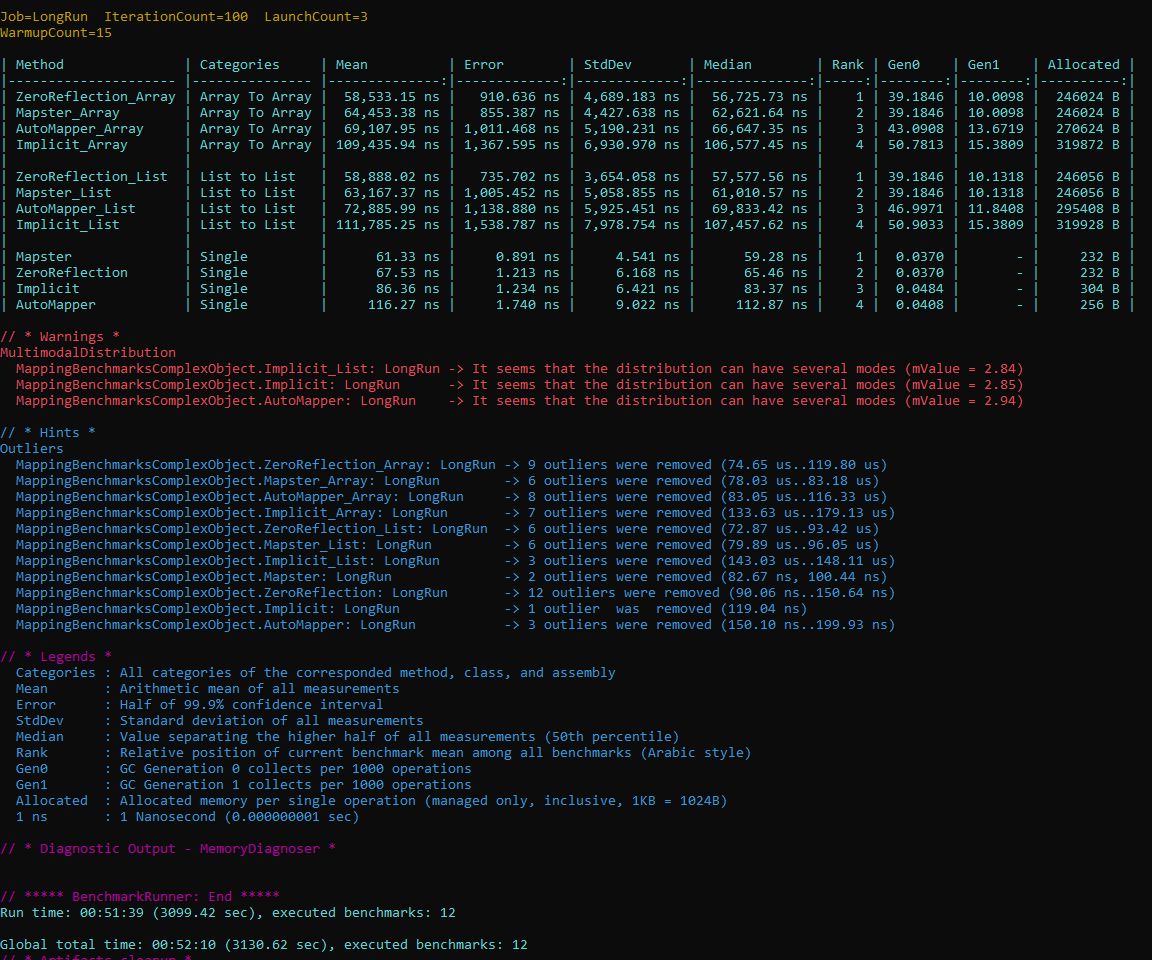
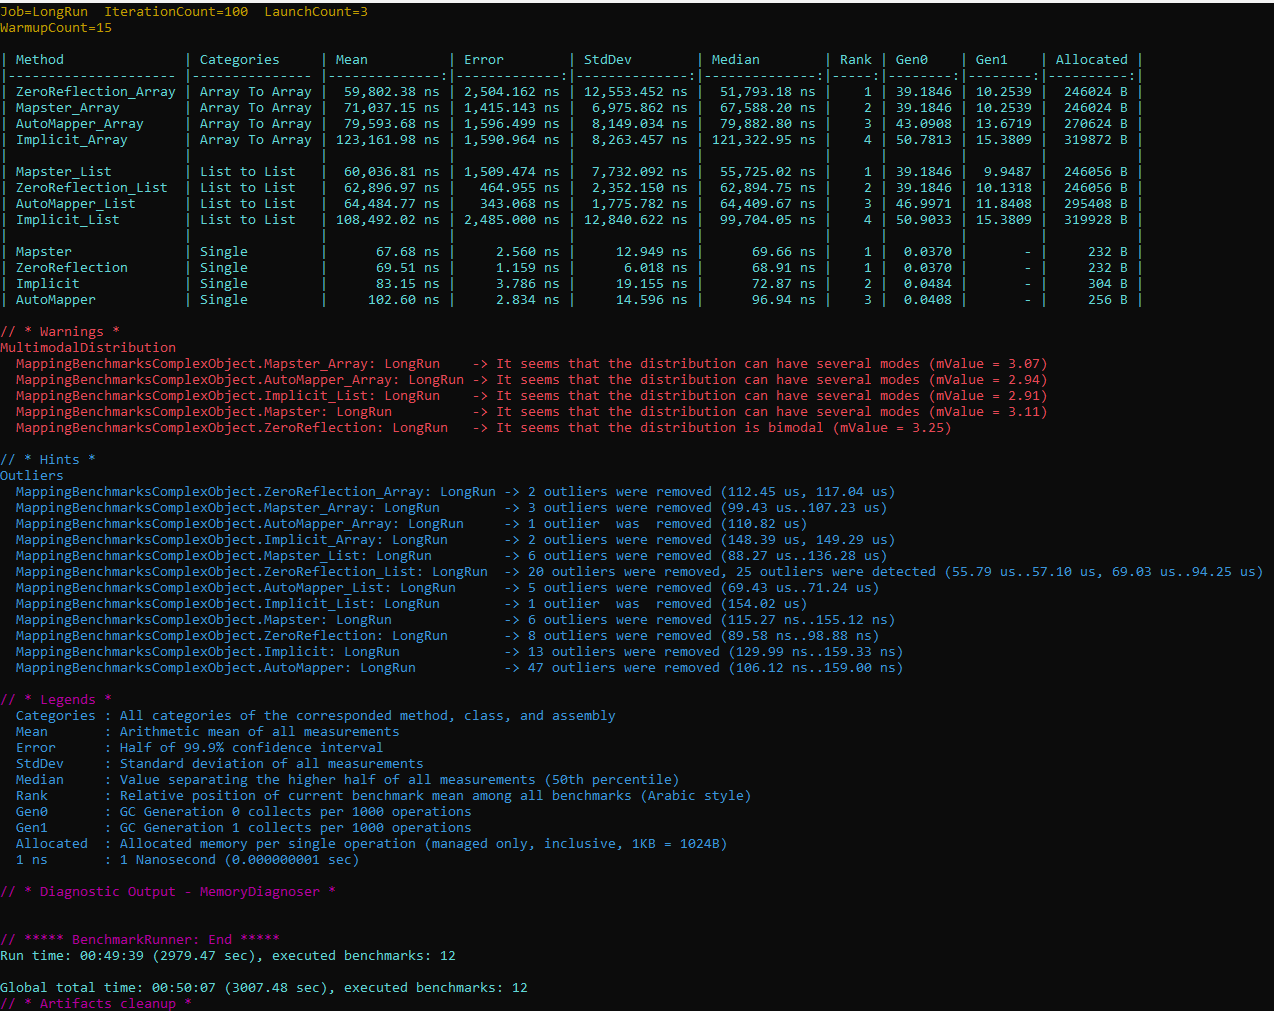
new benchmarks done using jump table and improved nested object mappings

diff --git a/README.md b/README.md
@@ -6,6 +6,8 @@ ZeroReflection.Mapper is a .NET source generator for object mapping. It enables 
 - Attribute-based mapping configuration
 - Custom mapping profiles
 - Ignore properties with attributes
+- Optional LINQ projection expressions (compile-time generated)
+- Fast dispatcher for arrays/lists/single objects (if/else or switch jump-table)
 - Source generator for high performance
 
 ## Getting Started
@@ -25,6 +27,10 @@ A Mapper Profile in ZeroReflection.Mapper allows you to configure how objects ar
 2. Override the `Configure` method and use the provided `MapperConfiguration` to set up your mappings.
 
 > **Note:** If you are not interested in projections, use `config.EnableProjectionFunctions = false;` in your profile configuration. This will prevent the generator from emitting LINQ projection expressions and compiled delegates.
+> Notes
+> - If you are not interested in projections, use `config.EnableProjectionFunctions = false;`. When `false`, projection members may still be selectively generated for collection element types used by other mappings.
+> - `config.UseSwitchDispatcher` controls whether the dispatcher uses a switch-based jump table or chained type checks.
+> - `config.ThrowIfPropertyMissing` injects build-time `#error` for unmapped destination properties.
 
 ### Example
 ```csharp
@@ -35,9 +41,14 @@ public class ZeroReflectionMapperProfile : MapperProfile
     public override void Configure(MapperConfiguration config)
     {
         // Enable projection functions (for LINQ and compiled delegates)
+        // Projection functions (Projection, ListProjection, ArrayProjection + compiled delegates)
         config.EnableProjectionFunctions = true;
         // If you do NOT want projections, set to false:
         // config.EnableProjectionFunctions = false;
+        // Dispatcher strategy
+        config.UseSwitchDispatcher = true;
+        // Build will fail if a destination property cannot be mapped (unless ignored or custom mapped)
+        config.ThrowIfPropertyMissing = false;
 
         // Simple mapping with reverse
         config.CreateMap<PersonModel, PersonEntity>().Reverse();
@@ -48,6 +59,7 @@ public class ZeroReflectionMapperProfile : MapperProfile
             .Ignore(dest => dest.Manufacturer);
 
         // Reverse mapping for customized ones
+        // Reverse mapping for customized ones must be defined explicitly
         config.CreateMap<ProductEntity, ProductModel>();
 
         // Custom mapping function
@@ -81,11 +93,17 @@ public class StaticMappers
 - **Custom Member Mapping**: Use `.ForMember()` to customize how individual properties are mapped.
 - **Ignore Properties**: Use `.Ignore()` to skip mapping specific properties.
 - **Custom Mapping Functions**: Use `.WithCustomMapping()` to provide your own mapping logic.
+### Key Points
+- Reverse Mapping: `.Reverse()` adds the reverse direction only for simple mappings. It is not allowed after `WithCustomMapping`, `ForMember`, or `Ignore`. Define a separate reverse mapping instead.
+- Custom Member Mapping: Use `.ForMember()` to customize individual properties.
+- Ignore Properties: Use `.Ignore()` to skip specific destination properties.
+- Custom Mapping Functions: Use `.WithCustomMapping()` to provide your own mapping logic.
 
 For more details, see the sample profile in `Application/ZeroReflectionMapperProfile.cs`.
 
 ## Dependency Injection Registration
 To use ZeroReflection.Mapper with .NET Dependency Injection, register the mapping handlers and obtain an `IMapper` instance as follows:
+To use ZeroReflection.Mapper with .NET Dependency Injection, register the mapping services and obtain an `IMapper` instance as follows:
 
 ```csharp
 using Microsoft.Extensions.DependencyInjection;
@@ -99,9 +117,26 @@ var myMapper = sp.GetRequiredService<IMapper>();
 ```
 
 - `RegisterZeroReflectionMapping()` scans and registers all mapping profiles and handlers.
+- `RegisterZeroReflectionMapping()` registers `IMapper` and the generated `IGeneratedMappingDispatcher`.
 - You can now inject or resolve `IMapper` anywhere in your application.
 
+Note: the optional `configure` delegate parameter on `RegisterZeroReflectionMapping` is currently not used by the generator output.
+
 This approach works seamlessly with ASP.NET Core or any .NET application using Microsoft.Extensions.DependencyInjection.
+
+## Using the mapper at runtime
+You can use either the generated static extension methods or the `IMapper` service:
+
+- Generated methods per map, for single objects:
+  - `var entity = model.MapToPersonEntity();`
+- Collections/arrays (generated helpers):
+  - `var list = MapPersonModelToPersonEntity.MapListToPersonEntity(models);`
+  - `var arr = MapPersonModelToPersonEntity.MapArrayToPersonEntity(modelsArray);`
+- Via `IMapper` (collections/arrays):
+  - `var list = myMapper.Map<System.Collections.Generic.List<PersonEntity>>(models);`
+  - `var arr = myMapper.Map<PersonModel[], PersonEntity[]>(modelsArray);`
+- Via `IMapper` (single object):
+  - `var entity = myMapper.MapSingleObject<PersonModel, PersonEntity>(model);`
 
 ## What is being generated
 
@@ -109,6 +144,7 @@ ZeroReflection.Mapper Source Generator produces several types of files to suppor
 
 ### 1. DI Registration Extension
 This code provides DI registration for all mapping components, including the core mapper, dispatcher, and individual mapping handlers:
+Registers the core mapper and the generated dispatcher.
 
 ```csharp
 // <auto-generated />
@@ -124,6 +160,8 @@ namespace ZeroReflection.Mapper.Generated
     // and each concrete IMap<TSource,TDestination> handler for direct resolution / testing / fallback.
     // Safe to call once at application startup (idempotent with typical DI containers registering singletons).
     // Generated at 2025-08-20T14:30:12.4508116+02:00
+    // Provides a single extension point to register generated mapping components into DI.
+    // Adds: IMapper (core implementation) and IGeneratedMappingDispatcher (fast dispatcher).
     public static class MappingServiceExtensions
     {
         /// <summary>Registers all generated mapping services (mapper, dispatcher, individual handlers).</summary>
@@ -142,6 +180,7 @@ This generated code ensures all mapping services are registered in your DI conta
 
 ### 2. Mapping Logic Example
 This code shows a typical generated mapping class for converting between models and entities, including support for collections, nested objects, and LINQ projection expressions:
+Typical generated mapping class for converting between models and entities, including support for collections, nested objects, and optional LINQ projection expressions:
 
 ```csharp
 // <auto-generated />
@@ -167,13 +206,14 @@ namespace ZeroReflection.Mapper.Generated
                 Name = source.Name,
                 Certificate = source.Certificate == null ? null : MapCertificateModelToCertificateEntity.MapToCertificateEntity(source.Certificate),
                 Addresses = MapAddressModelToAddressEntity.ListProjectionCompiled(source.Addresses)
+                Addresses = MapAddressModelToAddressEntity.MapListToAddressEntity(source.Addresses)
             };
         }
 
         public static System.Collections.Generic.List<global::Application.Models.Entities.PersonEntity> MapListToPersonEntity(System.Collections.Generic.List<global::Application.Models.ViewModels.PersonModel> source) => ZeroReflection.Mapper.CodeGeneration.MapCollectionHelpers.MapList<global::Application.Models.ViewModels.PersonModel,global::Application.Models.Entities.PersonEntity>(source, x => x.MapToPersonEntity());
         [System.Runtime.CompilerServices.MethodImpl(System.Runtime.CompilerServices.MethodImplOptions.AggressiveInlining)]
 
-        public static global::Application.Models.Entities.PersonEntity[] MapArrayToPersonEntity(global::Application.Models.ViewModels.PersonModel[] source)
+        public static global::Application.Models.Entities.PersonEntity[] MapArrayToPersonEntity(global::Application.Models.ViewViews.PersonModel[] source)
         {
             if (source == null) return null;
             var result = new global::Application.Models.Entities.PersonEntity[source.Length];
@@ -181,6 +221,7 @@ namespace ZeroReflection.Mapper.Generated
                 result[i] = source[i].MapToPersonEntity();
             return result;
         }
+            => ZeroReflection.Mapper.CodeGeneration.MapCollectionHelpers.MapArray<global::Application.Models.ViewModels.PersonModel,global::Application.Models.Entities.PersonEntity>(source, x => x.MapToPersonEntity());
 
         [System.Runtime.CompilerServices.MethodImpl(System.Runtime.CompilerServices.MethodImplOptions.AggressiveInlining)]
         public static global::Application.Models.Entities.PersonEntity[] MapListToPersonEntityArray(System.Collections.Generic.List<global::Application.Models.ViewModels.PersonModel> source)
@@ -195,6 +236,7 @@ namespace ZeroReflection.Mapper.Generated
         public static System.Collections.Generic.List<global::Application.Models.Entities.PersonEntity> MapArrayToPersonEntityList(global::Application.Models.ViewModels.PersonModel[] source) => ZeroReflection.Mapper.CodeGeneration.MapCollectionHelpers.MapArrayToList<global::Application.Models.ViewModels.PersonModel,global::Application.Models.Entities.PersonEntity>(source, x => x.MapToPersonEntity());
 
         /// <summary>Expression for single item projection using Map method.</summary>
+        // Projection members are generated when enabled in configuration (globally, or selectively for collection element types)
         public static System.Linq.Expressions.Expression<System.Func<global::Application.Models.ViewModels.PersonModel, global::Application.Models.Entities.PersonEntity>> Projection => source => source.MapToPersonEntity();
 
         /// <summary>Expression for List<TSource> projection using list mapping method.</summary>
@@ -214,6 +256,10 @@ This generated mapping class provides efficient conversion between types, includ
 
 ### 3. Generated Mapping Dispatcher Example
 A dispatcher is also generated to provide ultra-fast, reflection-free mapping between types. It uses type checks to route conversions for single objects, arrays, and lists. This enables efficient runtime mapping without reflection:
+A dispatcher provides reflection-free mapping between types. It routes conversions for single objects, arrays, and lists.
+
+- If `UseSwitchDispatcher = false` (default behavior in code example below), chained type checks are emitted.
+- If `UseSwitchDispatcher = true`, an index and switch-based jump table is emitted for faster dispatch.
 
 ```csharp
 // <auto-generated />
@@ -274,13 +320,102 @@ namespace ZeroReflection.Mapper.Generated
 }
 ```
 
-This dispatcher enables fast, type-safe mapping at runtime, avoiding reflection and supporting arrays, lists, and single objects.
+#### Switch jump-table variant (when `UseSwitchDispatcher = true`)
+Below is an abbreviated example of the switch-based dispatcher the generator emits. Dictionaries assign small integer keys for each mapping pair; a `switch` routes the request.
+
+```csharp
+// <auto-generated />
+namespace ZeroReflection.Mapper.Generated
+{
+    internal static class __GeneratedMappingDispatcherStatic
+    {
+        private static readonly System.Collections.Generic.Dictionary<(System.Type, System.Type), int> _arrayMapIndex = new()
+        {
+            { (typeof(PersonModel[]), typeof(PersonEntity[])), 1 },
+            { (typeof(ProductModel[]), typeof(ProductEntity[])), 2 },
+            // ... more pairs ...
+        };
+        private static readonly System.Collections.Generic.Dictionary<(System.Type, System.Type), int> _listMapIndex = new()
+        {
+            { (typeof(System.Collections.Generic.List<PersonModel>), typeof(System.Collections.Generic.List<PersonEntity>)), 1 },
+            { (typeof(System.Collections.Generic.List<ProductModel>), typeof(System.Collections.Generic.List<ProductEntity>)), 2 },
+            // ... more pairs ...
+        };
+        private static readonly System.Collections.Generic.Dictionary<(System.Type, System.Type), int> _objectMapIndex = new()
+        {
+            { (typeof(PersonModel), typeof(PersonEntity)), 1 },
+            { (typeof(ProductModel), typeof(ProductEntity)), 2 },
+            // ... only pairs with direct object maps ...
+        };
+
+        internal static bool TryMapArray(object source, System.Type sourceType, System.Type destType, out object result)
+        {
+            if (source is null) { result = null!; return true; }
+            if (!_arrayMapIndex.TryGetValue((sourceType, destType), out int key)) { result = null!; return false; }
+            switch (key)
+            {
+                case 1: result = MapPersonModelToPersonEntity.MapArrayToPersonEntity((PersonModel[])source)!; return true;
+                case 2: result = MapProductModelToProductEntity.MapArrayToProductEntity((ProductModel[])source)!; return true;
+                // ... more cases ...
+                default: result = null!; return false;
+            }
+        }
+
+        internal static bool TryMapList(object source, System.Type sourceType, System.Type destType, out object result)
+        {
+            if (source is null) { result = null!; return true; }
+            if (!_listMapIndex.TryGetValue((sourceType, destType), out int key)) { result = null!; return false; }
+            switch (key)
+            {
+                case 1: result = MapPersonModelToPersonEntity.MapListToPersonEntity((System.Collections.Generic.List<PersonModel>)source)!; return true;
+                case 2: result = MapProductModelToProductEntity.MapListToProductEntity((System.Collections.Generic.List<ProductModel>)source)!; return true;
+                // ... more cases ...
+                default: result = null!; return false;
+            }
+        }
+
+        internal static bool TryMapSingleObject(object source, System.Type sourceType, System.Type destType, out object result)
+        {
+            if (source is null) { result = null!; return true; }
+            if (!_objectMapIndex.TryGetValue((sourceType, destType), out int key)) { result = null!; return false; }
+            switch (key)
+            {
+                case 1: result = ((PersonModel)source).MapToPersonEntity(); return true;
+                case 2: result = ((ProductModel)source).MapToProductEntity(); return true;
+                // ... more cases ...
+                default: result = null!; return false;
+            }
+        }
+    }
+}
+```
+
+This variant avoids repeated `if` type comparisons and can reduce dispatch overhead when many mappings exist.
+
+## Configuration flags
+Set these in your `MapperProfile.Configure` method via the provided `MapperConfiguration` instance:
+
+- `EnableProjectionFunctions` (default `false`)
+  - When `true`, projection expressions and compiled delegates are emitted for every mapping.
+  - When `false`, the generator may still emit projection members selectively for mappings that appear as collection element types in other mappings.
+- `UseSwitchDispatcher` (default `true`)
+  - Emits a switch-based jump table for the dispatcher when `true`; chained type checks when `false`.
+- `ThrowIfPropertyMissing` (default `false`)
+  - Emits build-time `#error` diagnostics for unmapped destination properties unless explicitly ignored or custom-mapped.
+
+## Attributes
+- `IgnoreMapAttribute` on a destination or source property to exclude it from mapping.
+- `MapToAttribute("OtherName")` on a property to map by a different name.
+- `CustomMappingAttribute(typeof(Source), typeof(Destination))` on a method to use that method for the specified map.
+- `CustomPropertyMappingAttribute(typeof(Source), typeof(Destination), "PropertyName")` on a method to provide custom logic for a single destination property.
 
 ## Benchmarks
 
 Performance is a key focus of ZeroReflection.Mapper. Benchmarks are provided to demonstrate mapping speed, memory usage, and comparison to other mapping libraries.
 
 Benchmark code and scenarios can be found in the `ZeroReflection.Benchmarks/` project.
+
+The “WithSwitch” benchmark variants correspond to enabling `UseSwitchDispatcher`.
 
 ### Example Benchmark: Mapping a Complex Person Object
 
